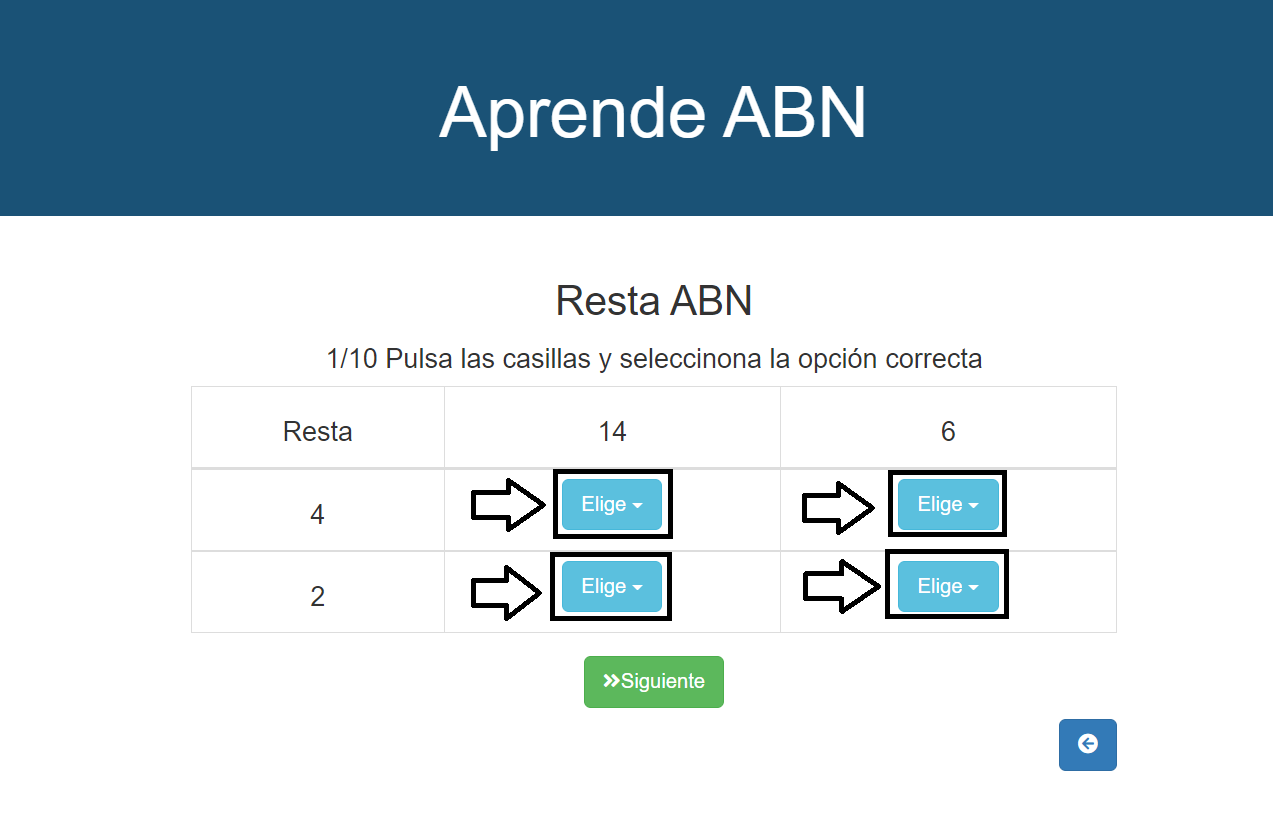
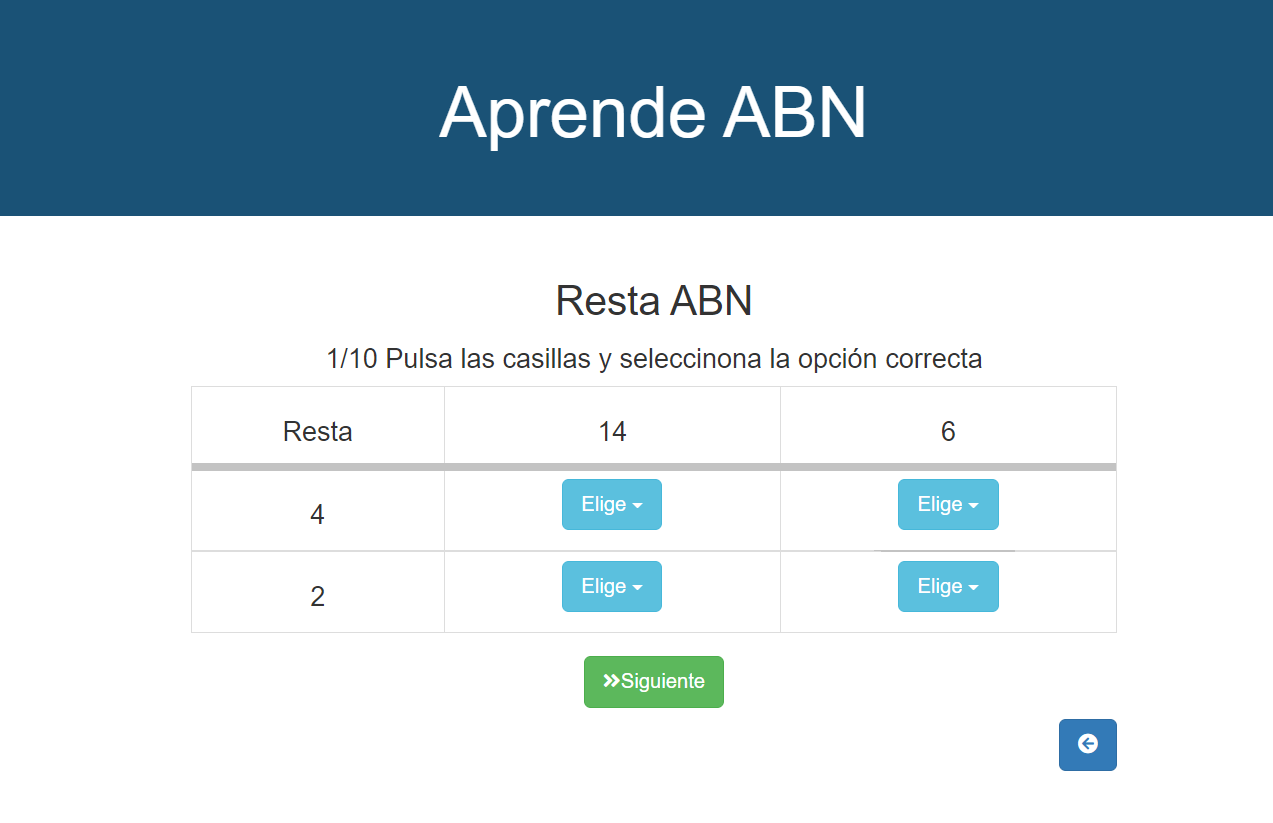
Readme.txt

Changed region(s): [[0.1532, 0.5468, 0.8885, 0.7594]]

diff --git a/cliente/src/controlWeb.js b/cliente/src/controlWeb.js
@@ -24,6 +24,7 @@ function ControlWeb($){
 		cadena=cadena +'<li><a href="#" value="white">Blanco</a></li>';
 		cadena=cadena +'<li><a href="#" value="#EBF5FB">Azul</a></li>';
         cadena=cadena+'<li><a href="#" value="#F2D7D5">Rosa</a></li>';
+        cadena=cadena+'<li><a href="#" value="#333C87">Azul Oscuro</a></li>';
         cadena=cadena+'<li><a href="#" value="imagen">Dibujo</a></li>';
         cadena=cadena+'</ul></li>';
         cadena=cadena+'<li><a href="../cliente/ayuda.html"><i class="fas fa-question"></i> Ayuda</a></li>';
@@ -98,6 +99,9 @@ function ControlWeb($){
 		}else if(color=="#EBF5FB"){
 			body.style.background=color;
 			encabezado.style.background="#7FB3D5";
+		}else if(color=="#333C87"){
+			body.style.background="white";
+			encabezado.style.background=color;
 		}else if(color=="#F2D7D5"){
 			body.style.background=color;
 			encabezado.style.background="#EA899A";
@@ -1297,6 +1301,7 @@ function ControlWeb($){
 		cadena=cadena +'<tr>';
 		cadena=cadena +'<td>';
 		cadena = cadena + '<div class="dropdown">' ;
+		if(solucion[1][0]==undefined){solucion[1][0]='Elige'}
 		cadena=cadena+'<button id="btnO1" type="button" class="btn btn-primary btn-lg dropdown-toggle" data-toggle="dropdown" '+disabled2[0]+' >'+solucion[1][0]+'<span class="caret"></span></button>';
 		cadena=cadena +'<div class="dropdown-menu" id="o1" role="menu">';
 		for(l=1;l<=sumando2[e13];l++){
@@ -1326,6 +1331,7 @@ function ControlWeb($){
 		cadena=cadena+'</td>';
 		cadena=cadena +'</tr>';
 		if(n>=2){
+			if(solucion[2][0]==undefined){solucion[2][0]='Elige'}
 			cadena=cadena +'<tr>';
 			cadena=cadena +'<td>';
 			cadena = cadena + '<div class="dropdown">' ;
@@ -1359,6 +1365,7 @@ function ControlWeb($){
 			cadena=cadena +'</tr>';
 		}
 		if(n>=3){
+			if(solucion[3][0]==undefined){solucion[3][0]='Elige'}
 			cadena=cadena +'<tr>';
 			cadena=cadena +'<td>';
 			cadena = cadena + '<div class="dropdown">' ;
@@ -1392,6 +1399,7 @@ function ControlWeb($){
 			cadena=cadena +'</tr>';
 		}
 		if(n>=4){
+			if(solucion[4][0]==undefined){solucion[4][0]='Elige'}
 			cadena=cadena +'<tr>';
 			cadena=cadena +'<td>';
 			cadena = cadena + '<div class="dropdown">' ;
@@ -1425,6 +1433,7 @@ function ControlWeb($){
 			cadena=cadena +'</tr>';			
 		}
 		if(n>=5){
+			if(solucion[5][0]==undefined){solucion[5][0]='Elige'}
 			cadena=cadena +'<tr>';
 			cadena=cadena +'<td>';
 			cadena = cadena + '<div class="dropdown">' ;
@@ -1458,6 +1467,7 @@ function ControlWeb($){
 			cadena=cadena +'</tr>';			
 		}
 		if(n>=6){
+			if(solucion[6][0]==undefined){solucion[6][0]='Elige'}
 			cadena=cadena +'<tr>';
 			cadena=cadena +'<td>';
 			cadena = cadena + '<div class="dropdown">' ;
@@ -1840,7 +1850,7 @@ this.ejercicio14=function(e13,score,n,solucion,disabled,disabled2,btn,btn2){
 		cadena=cadena +'</tr>';
 		cadena=cadena +'</thead>';
 		cadena=cadena +'<tbody>';
-		
+		if(solucion[1][0]==undefined){solucion[1][0]='Elige'}
 		cadena=cadena +'<tr>';
 		cadena=cadena +'<td>';
 		cadena = cadena + '<div class="dropdown">' ;
@@ -1873,6 +1883,7 @@ this.ejercicio14=function(e13,score,n,solucion,disabled,disabled2,btn,btn2){
 		cadena=cadena+'</td>';
 		cadena=cadena +'</tr>';
 		if(n>=2){
+			if(solucion[2][0]==undefined){solucion[2][0]='Elige'}
 			cadena=cadena +'<tr>';
 			cadena=cadena +'<td>';
 			cadena = cadena + '<div class="dropdown">' ;
@@ -1906,6 +1917,7 @@ this.ejercicio14=function(e13,score,n,solucion,disabled,disabled2,btn,btn2){
 			cadena=cadena +'</tr>';
 		}
 		if(n>=3){
+			if(solucion[3][0]==undefined){solucion[3][0]='Elige'}
 			cadena=cadena +'<tr>';
 			cadena=cadena +'<td>';
 			cadena = cadena + '<div class="dropdown">' ;
@@ -1939,6 +1951,7 @@ this.ejercicio14=function(e13,score,n,solucion,disabled,disabled2,btn,btn2){
 			cadena=cadena +'</tr>';
 		}
 		if(n>=4){
+			if(solucion[4][0]==undefined){solucion[4][0]='Elige'}
 			cadena=cadena +'<tr>';
 			cadena=cadena +'<td>';
 			cadena = cadena + '<div class="dropdown">' ;
@@ -1972,6 +1985,7 @@ this.ejercicio14=function(e13,score,n,solucion,disabled,disabled2,btn,btn2){
 			cadena=cadena +'</tr>';			
 		}
 		if(n>=5){
+			if(solucion[5][0]==undefined){solucion[5][0]='Elige'}
 			cadena=cadena +'<tr>';
 			cadena=cadena +'<td>';
 			cadena = cadena + '<div class="dropdown">' ;
@@ -2005,6 +2019,7 @@ this.ejercicio14=function(e13,score,n,solucion,disabled,disabled2,btn,btn2){
 			cadena=cadena +'</tr>';			
 		}
 		if(n>=6){
+			if(solucion[6][0]==undefined){solucion[6][0]='Elige'}
 			cadena=cadena +'<tr>';
 			cadena=cadena +'<td>';
 			cadena = cadena + '<div class="dropdown">' ;
